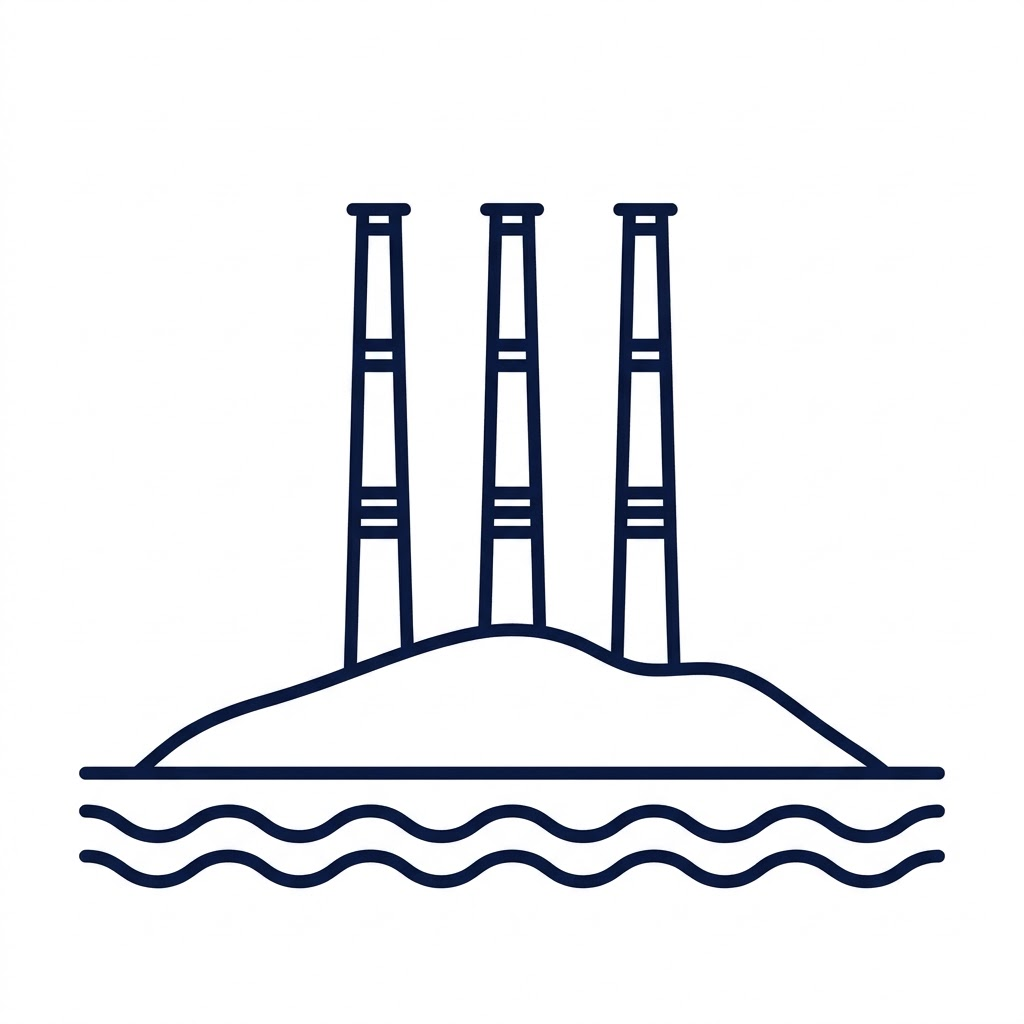
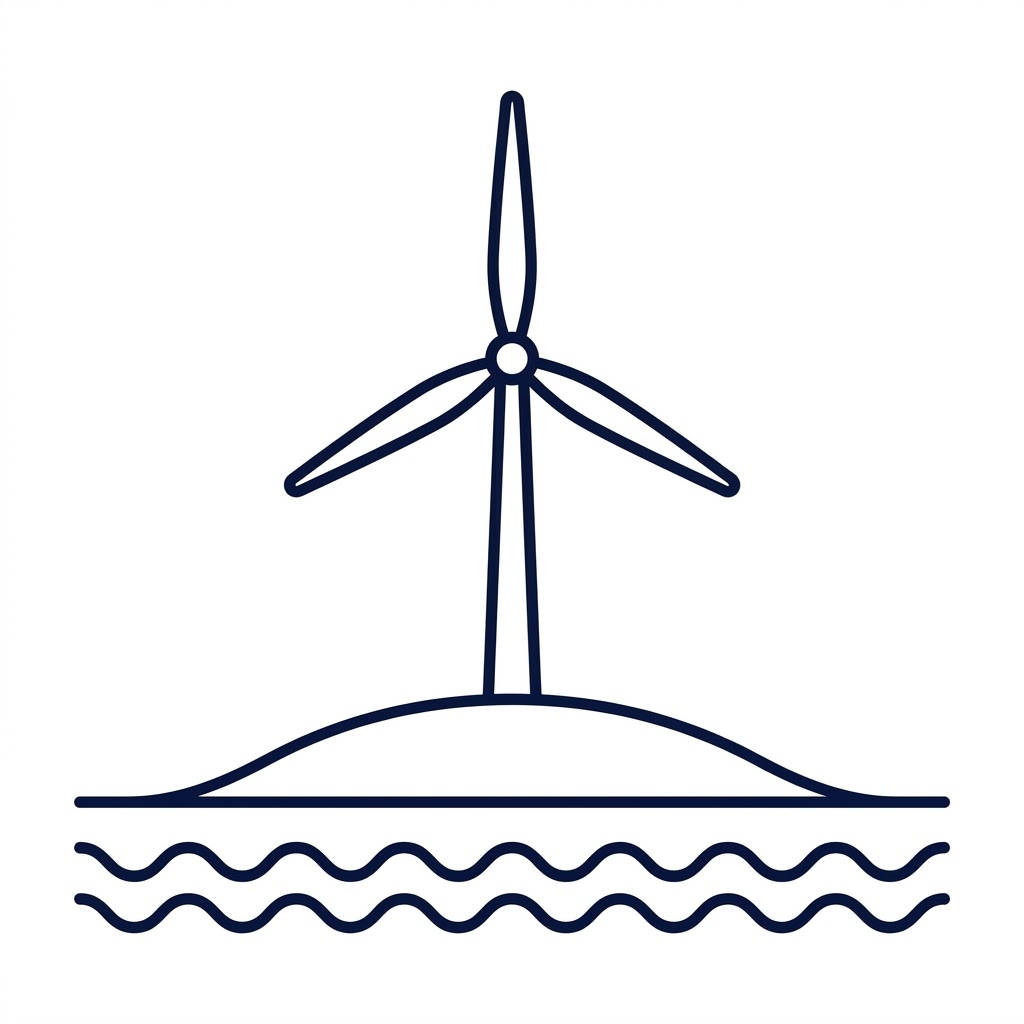
Design: redraw six pictograms Chris could not recognise
Che Kung Temple (brass windmill), Sharp Island (tombolo from above),
Tai O (fewer stilts, more water), Cheung Chau (ping on buns),
Lamma (wind turbine), Peng Chau (Turtle Rock). s074 and s078 still
need redrawing; Gemini quota ran out.

Changed region(s): [[0.0625, 0.0938, 0.9375, 0.9375]]

diff --git a/CLAUDE.md b/CLAUDE.md
@@ -52,7 +52,7 @@
 - [x] **M3 第 2 步（2026-11-24 上線）**：區界改由 152 個地方（選區）拼成——逐區量過，選區界和民政署區界是同一套線，只差落馬洲河套區（約 1 km²，沒人住所以不在選區裏，補回歸 p091 新田 · 南生圍），區外框和地方的邊是同一條線。`npm run map` 生成 `src/data/hkmap.json`（區 + 每區的地方 + 每個景點在哪個地方）和 `src/data/places.json`（地方形狀，用到時才載入）。點亮記錄：IndexedDB v3 新表 `lit`（地方編號 + 第一次亮的時間，不存位置），備份格式 v2（舊 v1 照樣還原）。首頁按點那一次讀完位置、誤差 ≤ 100 米就點亮人所在的地方（假位置的算測試）；蓋過章的景點所在的地方也算亮（由章推出來，舊章照樣點亮）。獅子山、魔鬼山、大棠楓香林座標在區界上，蓋章點亮的是它所屬區最近的地方。區詳情列出這區的地方（亮了的墨色）。**地圖畫法 Chris 選了 B**（2026-11-24，取代 11-20 的「區按亮了幾塊算深淺」）：去過的地方一塊塊塗墨藍（34%），沒去過是紙色，一區全部亮了整區變紅；點一個區時淡淡畫出它分成幾塊；地圖標籤寫「亮了幾塊 / 共幾塊」。放棄的 A（整區按幾成變深）：在長洲蓋一個章，整個離島區連大嶼山都變灰，像去遍了。2026-11-24 Chris 在 iPhone 測過；按他的意見改了：地圖選中某區後，點頁面上地圖以外的任何地方（抬頭、圖例、下面的空白）都取消選中，以前只有點地圖裏的海才行（`MapPage.tsx`，掛在 `.page` 的 onclick 上，iPhone Safari 點空白不會把 click 傳到 document）。
 - [ ] **M3 第 3 步 撥雲見霧（2026-11-24 開工，等 Chris 選霧的樣子）**：點一個區 → 鏡頭推進 0.7 秒到它（`useMapZoom` 的 `fit`，最多 6 倍；離島區這種大區差不多是全圖就不推）→ 推進時整區蓋着霧，到了霧才散開；取消選中 / 按「全圖」拉回全圖並取消選中。三種霧（`?fog=`，選定後刪掉另外兩種）：**mist 薄霧**（預設：選中的區底色變米色，沒去過的地方蓋着一團團白霧，去過的地方的霧散開）/ **part 撥開**（兩大片霧往左右散開，沒去過的是淡墨點）/ **ink 點墨**（沒有霧，沒去過的只有虛線，去過的一塊塊上墨）。霧的大小按「推進到了」那一刻算，推進途中不會跳。截圖模式加 `&anim=1` 照樣播動畫（用假數據在手機上試）。對比圖已發給 Chris。
 - **2026-11-22**：Chris 看過地方核對頁，地名沒問題。修了首頁「章虛一下、消失、再浮現」：雷達浮現原本用 `delay + fill: backwards`，iPhone 上等待期間不透明，CSS 的 `.rs .ink` 淡入先把章顯示出來；改為把等待寫進動畫前一段（一直透明）並關掉那幾個章的 CSS 淡入（`HerePage.tsx` 的 `emerge`）。2026-11-23 Chris 在 iPhone 確認：不再閃，章出來後也不再換章挪位。
-- **每個景點的專屬圖案（2026-11-24 全部畫完，下一步描成向量）**：用 Gemini 網頁版（Neon 高）按 `design/gemini/prompt.md` 一張張畫，Claude 在內置瀏覽器裏叫它畫、縮到 66 像素檢查、下載到 `design/gemini/out/sNNN.jpg`（早期 2048×2048，2026-11-23 第二輪起 1024×1024），狀態表在 `design/gemini/out/README.md`。**s001–s087 全部已存**（s023 尖沙咀鐘樓就是參考圖；s007、s012、s016 龍脊、s021 M+ 2026-11-23 按 Chris 要求重畫，M+ 加了「M+」字樣；2026-11-24 畫了 s037–s087，總覽 `design/gemini/out-board-2026-11-24.png`（s037–s053）、`out-board-2026-11-24b.png`（s054–s072）、`out-board-2026-11-24c.png`（s073–s087））。**待 Chris 看**：s043 魔鬼山（山頂古堡）、s087 坪洲（說明書的單車跟 s070 撞，改畫心形石）。幾張跟說明書不同的見狀態表（s066 吉澳魚排、s077 跨灣大橋、s079 竹竿網兜、s080 菠蘿包石）。Gemini 額度是幾小時滾動恢復，一輪約 20 張；存原圖的做法見狀態表下面的備忘。之後要決定怎樣放進章面：描成向量路徑（章面的凸紋 / 濕墨 / 乾墨都用同一個幾何）。
+- **每個景點的專屬圖案（2026-11-24 全部畫完，下一步描成向量）**：用 Gemini 網頁版（Neon 高）按 `design/gemini/prompt.md` 一張張畫，Claude 在內置瀏覽器裏叫它畫、縮到 66 像素檢查、下載到 `design/gemini/out/sNNN.jpg`（早期 2048×2048，2026-11-23 第二輪起 1024×1024），狀態表在 `design/gemini/out/README.md`。**s001–s087 全部已存**（s023 尖沙咀鐘樓就是參考圖；s007、s012、s016 龍脊、s021 M+ 2026-11-23 按 Chris 要求重畫，M+ 加了「M+」字樣；2026-11-24 畫了 s037–s087，總覽 `design/gemini/out-board-2026-11-24.png`（s037–s053）、`out-board-2026-11-24b.png`（s054–s072）、`out-board-2026-11-24c.png`（s073–s087））。**2026-11-24 晚 Chris 指出 8 張認不出 / 題材選錯**（車公廟、文化博物館、釣魚翁、大澳、長洲、南丫島、坪洲、橋咀洲）——根本原因：說明書憑記憶寫，Claude 只檢查縮小後看不看得清，沒問「香港人一看會不會想到這個地方」。已重畫 6 張（車公廟 → 大殿銅風車、大澳 → 少樁多水紋、長洲 → 平安包、南丫島 → 風采發電站風車、坪洲 → 大利島烏龜石、橋咀洲 → 從山上望連島沙洲）；**s074 文化博物館、s078 釣魚翁還要重畫**（Gemini 額度用完）。待 Chris 看：s043 魔鬼山。**以後畫 / 重查其餘景點：每張先查實景，定「最讓人記住的畫面」給 Chris 點頭再畫**；其餘 79 張要不要重查待 Chris 定。Gemini 額度是幾小時滾動恢復，一輪約 20 張；存原圖的做法見狀態表下面的備忘。之後要決定怎樣放進章面：描成向量路徑（章面的凸紋 / 濕墨 / 乾墨都用同一個幾何）。
 - 未決：改名；景點數量要不要加。
 
 ## 當前進度

diff --git a/design/gemini/out/README.md b/design/gemini/out/README.md
@@ -1,4 +1,4 @@
-# Gemini 畫的景點圖案（逐個收集中）
+| s087 | 坪洲 | 好 | 心形石是 Claude 憑印象換的、查不到資料，Chris 也看不懂 → 改畫坪洲必到的大利島「烏龜石」（側看像趴着曬太陽的烏龜的石頭） || s086 | 南丫島 · 榕樹灣 | 好 | 第一版發電廠三支煙囱，Chris 問是甚麼意思（不是遊客記住的東西）→ 改畫「南丫風采發電站」：小山頂上一座三葉風車 || s085 | 長洲 | 好 | 第一版包山的包子畫成一粒粒點，Chris 說像古代頭盔 → 改畫平安包：三個疊成小金字塔，頂上那個印「平安」方印（跟 s021「M+」一樣，准許有字） || s083 | 大澳漁村 | 好 | 棚屋 + 梯。2026-11-24 晚按 Chris 意見重畫：木樁減到每間幾根、屋子升高，下面三行水紋，像漁村 || s080 | 橋咀洲 | 好 | 第一版連島沙洲太扁 → 改畫菠蘿包石，Chris 說不是大家記住的 → 2026-11-24 晚改回連島沙洲，用從山上斜望的角度（S 形沙洲通到橋頭小島，兩邊海浪），填滿畫面 || s078 | 釣魚翁 | **要重畫** | 現在只是一個尖錐山 + 標距柱，Chris 說認不出。額度用完未改；下次照真實輪廓畫（香港三尖之一，山頂陡峭火山岩崖，臨清水灣） || s074 | 香港文化博物館 | **要重畫** | 現在是三個疊起的坡頂，Chris 說像三間平房、認不出。額度用完未改；要先查實景找最讓人記住的畫面 || s073 | 車公廟 | 好 | 2026-11-24 晚 Chris 指出第一版（大紙風車 + 兩個小風車的架）看不出是甚麼 → 重畫成大殿前的銅風車（Gemini 查了實景）：拱形框裏一個大扇葉輪、兩邊搖柄、立在座上 |# Gemini 畫的景點圖案（逐個收集中）
 
 來源：Gemini 網頁版（Neon 高）對話「太平山頂獅子亭印章」https://gemini.google.com/app/7d1db0edfc8a91bc ，說明書 `../prompt.md` + 參考圖 `../reference-clock.png`。
 每張 2048×2048 JPEG（Gemini 原圖 1024，「下載完整尺寸」給的是放大到 2048 的版本），檔名 = 景點編號。2026-11-22 起由 Claude 在內置瀏覽器裏一張張叫它畫、檢查（縮到章上實際大小 66 像素還認得出）、下載。
@@ -93,7 +93,8 @@
 | s086 | 南丫島 · 榕樹灣 | 好 | 發電廠三支煙囱 + 矮山 |
 | s087 | 坪洲 | **待 Chris 看** | 說明書原寫「舊單車」，跟 s070 大美督的單車撞 → 改畫坪洲心形石。Gemini 沒有明說查過實景，請 Chris 確認心形石確實在坪洲、形狀對 |
 
-**2026-11-24 全部畫完**（s001–s087，s023 是參考圖不用畫）：第一輪 08:52 開始，約 09:15 停在 s054；第二輪 s054–s072，約 15:18 額度用完；第三輪 16:47 起畫 s073–s087（共 18 張連重畫，未用完額度）。額度是幾小時滾動恢復，不是一天一次，一輪約 20 張。總覽圖 `../out-board-2026-11-24.png`（s037–s053）、`../out-board-2026-11-24b.png`（s054–s072）、`../out-board-2026-11-24c.png`（s073–s087）。每張請求都要它「先查真實照片」——說明書是憑記憶寫的，M+、龍脊就寫錯過。待 Chris 看：s043 魔鬼山、s087 坪洲。下一步：描成向量路徑放進章面。
+**2026-11-24 全部畫完**（s001–s087，s023 是參考圖不用畫）：第一輪 08:52 開始，約 09:15 停在 s054；第二輪 s054–s072，約 15:18 額度用完；第三輪 16:47 起畫 s073–s087（共 18 張連重畫，未用完額度）。額度是幾小時滾動恢復，不是一天一次，一輪約 20 張。總覽圖 `../out-board-2026-11-24.png`（s037–s053）、`../out-board-2026-11-24b.png`（s054–s072）、`../out-board-2026-11-24c.png`（s073–s087）。每張請求都要它「先查真實照片」——說明書是憑記憶寫的，M+、龍脊就寫錯過。待 Chris 看：s043 魔鬼山。2026-11-24 晚 Chris 指出 8 張認不出 / 選錯題材（根本原因：說明書憑記憶寫、Claude 只檢查縮小後看不看得清，沒問「香港人一看會不會想到這個地方」），已重畫 6 張；s074、s078 額度用完未改。以後每張先查實景、定「最讓人記住的畫面」再畫。下一步：描成向量路徑放進章面。
+- Gemini 有時回「Image generation isn't available」或「encountering an error」：重新載入頁面、檢查模式是「Neon 高」（重新載入後常變回 Hydrogen 或思考等級「低」），再發一次。
 - 第三輪開始時頁面重新載入，輸入框變成「圖片」工具模式（模型寫「自動」）：先點掉「圖片」，再設回「4 Neon」+「高」，保持畫風一致。
 做法備忘：
 - 頁面重新載入後，舊圖的下載鏈接變成 `/rd-gg/`（兩跳才拿到 lh3 網址），新畫的圖仍是 `/gg-dl/`；Claude 的網頁輔助代碼 `__dl()` 兩種都處理。

diff --git a/docs/ENGINEERING.md b/docs/ENGINEERING.md
@@ -323,7 +323,7 @@
 ### 路線圖（截至本文更新日）
 - **M2 蓋章**：全部完成（2026-11-23 實地測試）。下一步：把 `docs/friend-guide.md` 發給朋友試用。
 - **M3**：第 1 步「地方」數據完成且 Chris 已看。**第 2 步（2026-11-24 上線）**：地方圖（`places.json`，區由地方拼成）+ 點亮記錄（IndexedDB v3 `lit` 表、備份 v2）+ 首頁按點時順手點亮 + 地圖按地方上色 + 區詳情列出地方。地圖畫法 Chris 選了 B：亮了的地方一塊塊塗墨藍，一區全亮才紅，點區時淡淡畫出分塊（放棄 A「整區按幾成變深」）。之後撥雲見霧推進動畫（點區 → 鏡頭推進 → 霧散開露出地方）。
-- **景點專屬圖案**：Gemini 已畫完 s001–s087（s023 是參考圖，2026-11-24 完成；s043、s087 待 Chris 看）。之後要描成向量路徑。
+- **景點專屬圖案**：Gemini 已畫完 s001–s087（s023 是參考圖，2026-11-24）；同晚 Chris 指出 8 張認不出，已重畫 6 張，s074、s078 待重畫，s043 待 Chris 看。之後要描成向量路徑。
 - **M4** 補錄（虛線章）、拍照、分享卡片（9:16）。**M5** 朋友（Supabase；朋友只讀「點亮了哪些區」，不同步精確位置和時間，行級權限）。
 - **未決**：改名（App Store 已有 ExploreHK）；景點數量要不要加（觀塘、葵青、沙田景點少）。
 
